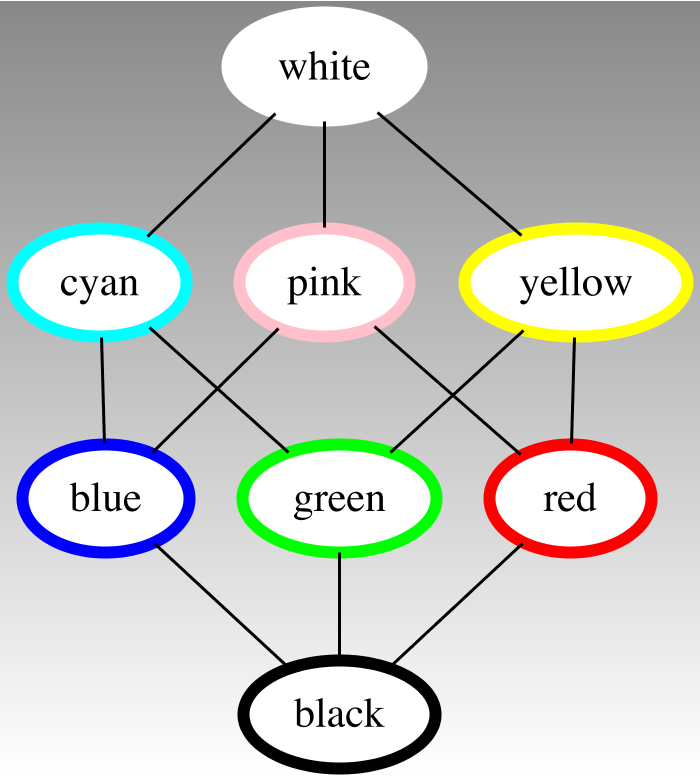
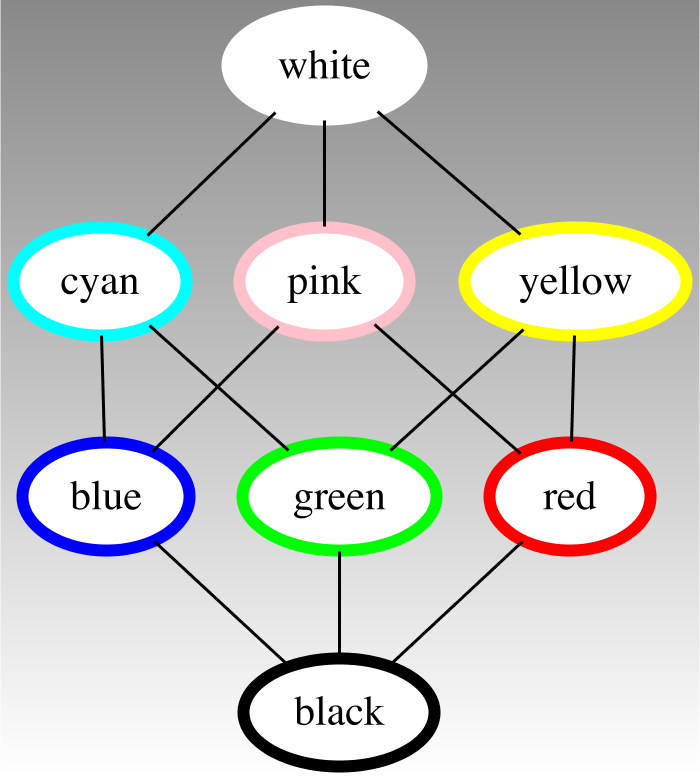
don't autoadd dpi=96, adjust the image size in the svg, not in the rasterizer

diff --git a/graphviz-java/src/main/java/guru/nidi/graphviz/engine/Format.java b/graphviz-java/src/main/java/guru/nidi/graphviz/engine/Format.java
@@ -29,8 +29,8 @@ public enum Format {
         }
 
         @Override
-        EngineResult postProcess(EngineResult result, double fontAdjust) {
-            return result.mapString(s -> postProcessSvg(s, true, fontAdjust));
+        EngineResult postProcess(Graphviz graphviz, EngineResult result) {
+            return result.mapString(s -> postProcessSvg(graphviz, s, true));
         }
     },
 
@@ -41,8 +41,8 @@ public enum Format {
         }
 
         @Override
-        EngineResult postProcess(EngineResult result, double fontAdjust) {
-            return result.mapString(s -> postProcessSvg(s, true, fontAdjust));
+        EngineResult postProcess(Graphviz graphviz, EngineResult result) {
+            return result.mapString(s -> postProcessSvg(graphviz, s, true));
         }
     },
 
@@ -53,8 +53,8 @@ public enum Format {
         }
 
         @Override
-        EngineResult postProcess(EngineResult result, double fontAdjust) {
-            return result.mapString(s -> postProcessSvg(s, false, fontAdjust));
+        EngineResult postProcess(Graphviz graphviz, EngineResult result) {
+            return result.mapString(s -> postProcessSvg(graphviz, s, false));
         }
     },
     DOT("dot", "dot", false, false),
@@ -90,7 +90,7 @@ public enum Format {
                 .replace("\\\\\"", "\\\""); //otherwise, the " is unescaped and the string not terminated
     }
 
-    EngineResult postProcess(EngineResult result, double fontAdjust) {
+    EngineResult postProcess(Graphviz graphviz, EngineResult result) {
         return result;
     }
 
@@ -108,30 +108,48 @@ public enum Format {
         return src.replace("&", "&amp;");
     }
 
-    private static String postProcessSvg(String result, boolean prefix, double fontAdjust) {
+    private static String postProcessSvg(Graphviz graphviz, String result, boolean prefix) {
         final String unprefixed = prefix ? withoutPrefix(result) : result;
-        final String pixelSized = pointsToPixels(unprefixed);
-        return fontAdjust == 1 ? pixelSized : fontAdjusted(pixelSized, fontAdjust);
-    }
-
-    private static String pointsToPixels(String svg) {
-        final Matcher m = SVG_PATTERN.matcher(svg);
-        if (!m.find()) {
-            LOG.warn("Generated SVG has not the expected format. There might be image size problems.");
-            return svg;
-        }
-        if (m.group("unit").equals("px")) {
-            return svg;
-        }
-        final double scaleX = Double.parseDouble(m.group("scaleX")) / PIXEL_PER_POINT;
-        final double scaleY = Double.parseDouble(m.group("scaleY")) / PIXEL_PER_POINT;
-        return m.replaceFirst("<svg width=\"" + m.group("width") + "px\" height=\"" + m.group("height") + "px\""
-                + m.group("between") + "transform=\"scale(" + scaleX + " " + scaleY + ")");
+        final String pixelSized = pointsToPixels(unprefixed, graphviz.dpi(),
+                graphviz.width, graphviz.height, graphviz.scale);
+        return graphviz.fontAdjust == 1 ? pixelSized : fontAdjusted(pixelSized, graphviz.fontAdjust);
     }
 
     private static String withoutPrefix(String svg) {
         final int pos = svg.indexOf("<svg ");
         return pos < 0 ? svg : svg.substring(pos);
+    }
+
+    private static String pointsToPixels(String svg, double dpi, int width, int height, double scale) {
+        final Matcher m = SVG_PATTERN.matcher(svg);
+        if (!m.find()) {
+            LOG.warn("Generated SVG has not the expected format. There might be image size problems.");
+            return svg;
+        }
+        return m.replaceFirst("<svg " + svgSize(m, width, height, scale) + m.group("between") + svgScale(m, dpi));
+    }
+
+    private static String svgSize(Matcher m, int width, int height, double scale) {
+        double w = Integer.parseInt(m.group("width"));
+        double h = Integer.parseInt(m.group("height"));
+        if (width > 0 && height > 0) {
+            w = width;
+            h = height;
+        } else if (width > 0) {
+            h *= width / w;
+            w = width;
+        } else if (height > 0) {
+            w *= height / h;
+            h = height;
+        }
+        return "width=\"" + Math.round(w * scale) + "px\" height=\"" + Math.round(h * scale) + "px\"";
+    }
+
+    private static String svgScale(Matcher m, double dpi) {
+        final double pixelScale = m.group("unit").equals("px") ? 1 : Math.round(10000 * dpi / 72) / 10000d;
+        final double scaleX = Double.parseDouble(m.group("scaleX")) / pixelScale;
+        final double scaleY = Double.parseDouble(m.group("scaleY")) / pixelScale;
+        return "transform=\"scale(" + scaleX + " " + scaleY + ")";
     }
 
     private static String fontAdjusted(String svg, double fontAdjust) {

diff --git a/graphviz-java/src/main/java/guru/nidi/graphviz/engine/Graphviz.java b/graphviz-java/src/main/java/guru/nidi/graphviz/engine/Graphviz.java
@@ -15,19 +15,23 @@
  */
 package guru.nidi.graphviz.engine;
 
-import guru.nidi.graphviz.attribute.ForGraph;
-import guru.nidi.graphviz.model.*;
+import guru.nidi.graphviz.model.Graph;
+import guru.nidi.graphviz.model.MutableGraph;
 
 import javax.annotation.Nullable;
 import java.io.*;
 import java.util.*;
 import java.util.concurrent.*;
 import java.util.function.Consumer;
-import java.util.function.Function;
+import java.util.regex.Matcher;
+import java.util.regex.Pattern;
 
 import static guru.nidi.graphviz.engine.IoUtils.readStream;
 
 public final class Graphviz {
+    private static final Pattern DPI_PATTERN = Pattern.compile("\"?dpi\"?\\s*=\\s*\"?([0-9.]+)\"?",
+            Pattern.CASE_INSENSITIVE);
+
     @Nullable
     private static volatile BlockingQueue<GraphvizEngine> engineQueue;
     @Nullable
@@ -127,13 +131,9 @@ public final class Graphviz {
         engineQueue = null;
     }
 
-    public static Graphviz fromString(String src) {
-        return new Graphviz(src, Rasterizer.DEFAULT, 0, 0, 1, 1, Options.create());
-    }
-
     public static Graphviz fromFile(File src) throws IOException {
         try (final InputStream in = new FileInputStream(src)) {
-            return fromString(readStream(in)).basedir(src.getParentFile());
+            return fromString(readStream(in)).basedir(src.getAbsoluteFile().getParentFile());
         }
     }
 
@@ -142,20 +142,11 @@ public final class Graphviz {
     }
 
     public static Graphviz fromGraph(MutableGraph graph) {
-        return withDefaultDpi(graph, g -> fromString(g.toString()));
+        return fromString(graph.toString());
     }
 
-    private static <T> T withDefaultDpi(MutableGraph graph, Function<MutableGraph, T> action) {
-        final MutableAttributed<MutableGraph, ForGraph> attrs = graph.graphAttrs();
-        final Object oldDpi = attrs.get("dpi");
-        if (oldDpi == null) {
-            attrs.add("dpi", 96);
-        }
-        try {
-            return action.apply(graph);
-        } finally {
-            attrs.add("dpi", oldDpi);
-        }
+    public static Graphviz fromString(String src) {
+        return new Graphviz(src, Rasterizer.DEFAULT, 0, 0, 1, 1, Options.create());
     }
 
     public Graphviz engine(Engine engine) {
@@ -209,11 +200,16 @@ public final class Graphviz {
         final EngineResult result = options.format == Format.DOT
                 ? EngineResult.fromString(src)
                 : getEngine().execute(options.format.preProcess(src), options, rasterizer);
-        return options.format.postProcess(result, fontAdjust);
+        return options.format.postProcess(this, result);
     }
 
     Format format() {
         return options.format;
+    }
+
+    double dpi() {
+        final Matcher matcher = DPI_PATTERN.matcher(src);
+        return matcher.find() ? Double.parseDouble(matcher.group(1)) : 72;
     }
 
     private static class ErrorGraphvizEngine implements GraphvizEngine {

diff --git a/graphviz-java/src/test/java/guru/nidi/graphviz/engine/OptionsTest.java b/graphviz-java/src/test/java/guru/nidi/graphviz/engine/OptionsTest.java
@@ -46,7 +46,7 @@ class OptionsTest {
     @Test
     void fromJsonOneImage() {
         final Options options = Options.fromJson("{engine:'DOT',format:'PNG',images:["
-                + "{path:'" + uriPathOf(new File("./example/ex1.png")) + "',width:'547px',height:'100px'}]}");
+                + "{path:'" + uriPathOf(new File("./example/ex1.png")) + "',width:'550px',height:'100px'}]}");
         final Options expected = Options.create().engine(Engine.DOT).format(Format.PNG).image("example/ex1.png");
         assertEquals(expected, options);
     }
@@ -54,8 +54,8 @@ class OptionsTest {
     @Test
     void fromJsonTwoImages() {
         final Options options = Options.fromJson("{engine:'DOT',format:'PNG',images:["
-                + "{path:'" + uriPathOf(new File("./example/ex1.png")) + "',width:'547px',height:'100px'},"
-                + "{path:'" + uriPathOf(new File("./example/ex2.png")) + "',width:'900px',height:'962px']}");
+                + "{path:'" + uriPathOf(new File("./example/ex1.png")) + "',width:'550px',height:'100px'},"
+                + "{path:'" + uriPathOf(new File("./example/ex2.png")) + "',width:'900px',height:'964px']}");
         final Options expected = Options.create().engine(Engine.DOT).format(Format.PNG).image("example/ex1.png").image("example/ex2.png");
         assertEquals(expected, options);
     }
@@ -77,15 +77,15 @@ class OptionsTest {
     void toJsonOneImage() {
         final String s = Options.create().engine(Engine.DOT).format(Format.PNG).basedir(new File("example")).image("ex1.png").toJson(false);
         assertEquals("{format:'svg',engine:'dot',basedir:'" + new File("example").getAbsolutePath() + "',images:[" +
-                "{path:'" + uriPathOf(new File("example/ex1.png")) + "',width:'547px',height:'100px'}]}", s);
+                "{path:'" + uriPathOf(new File("example/ex1.png")) + "',width:'550px',height:'100px'}]}", s);
     }
 
     @Test
     void toJsonTwoImages() {
         final String s = Options.create().engine(Engine.DOT).format(Format.PNG).basedir(new File("example")).image("ex1.png").image("ex2.png").toJson(false);
         assertEquals("{format:'svg',engine:'dot',basedir:'" + new File("example").getAbsolutePath() + "',images:["
-                + "{path:'" + uriPathOf(new File("example/ex1.png")) + "',width:'547px',height:'100px'},"
-                + "{path:'" + uriPathOf(new File("example/ex2.png")) + "',width:'900px',height:'962px'}]}", s);
+                + "{path:'" + uriPathOf(new File("example/ex1.png")) + "',width:'550px',height:'100px'},"
+                + "{path:'" + uriPathOf(new File("example/ex2.png")) + "',width:'900px',height:'964px'}]}", s);
     }
 
 }

diff --git a/graphviz-java/src/test/java/guru/nidi/graphviz/CodeAnalysisTest.java b/graphviz-java/src/test/java/guru/nidi/graphviz/CodeAnalysisTest.java
@@ -44,13 +44,14 @@ class CodeAnalysisTest extends CodeAssertJunit5Test {
     @Override
     protected DependencyResult analyzeDependencies() {
         class GuruNidiGraphviz extends DependencyRuler {
-            DependencyRule model, attribute, engine, parse, service, use;
+            DependencyRule model, attribute, attributeValidate, engine, parse, service, use;
 
             public void defineRules() {
                 base().mayBeUsedBy(all());
                 engine.mayUse(model, service);
                 parse.mayUse(model, attribute);
                 model.mayUse(attribute);
+                attributeValidate.mayUse(attribute);
                 use.mayUse(all());
             }
         }
@@ -116,7 +117,9 @@ class CodeAnalysisTest extends CodeAssertJunit5Test {
                         In.locs("MutableGraph", "Serializer", "Parser", "Label").ignore("GodClass"),
                         In.locs("ImmutableGraph", "MutableGraph").ignore("ExcessiveMethodLength", "ExcessiveParameterList", "LooseCoupling"),
                         In.locs("Format", "ImmutableGraph$GraphAttributed").ignore("AccessorMethodGeneration"),
+                        In.locs("AttributeConfigs", "AttributeValidator").ignore("TooManyStaticImports"),
                         In.classes(MutableNode.class, Rasterizer.class).ignore("ConfusingTernary"),
+                        In.clazz(ThrowingFunction.class).ignore("AvoidRethrowingException"),
                         In.classes(ThrowingFunction.class, ThrowingBiConsumer.class).ignore("SignatureDeclareThrowsException"))
                 .because("It's command line tool", In.loc("GraphvizServer")
                         .ignore("AvoidCatchingGenericException", "PreserveStackTrace"))
@@ -138,7 +141,8 @@ class CodeAnalysisTest extends CodeAssertJunit5Test {
         final CpdMatchCollector collector = new CpdMatchCollector()
                 .apply(PmdConfigs.cpdIgnoreEqualsHashCodeToString())
                 .because("It's java",
-                        In.loc("*Graph").ignore("Graph(strict, directed, cluster, name,", "if (strict != graph.strict) {"))
+                        In.loc("*Graph").ignore("Graph(strict, directed, cluster, name,", "if (strict != graph.strict) {"),
+                        In.loc("Format").ignore("String preProcess(String src) {"))
                 .just(In.locs("GraphvizGraalEngine", "GraphvizNashornEngine").ignore("void doInit()"));
         return new CpdAnalyzer(AnalyzerConfig.maven().main(), 36, collector).analyze();
     }

diff --git a/graphviz-java/src/main/java/guru/nidi/graphviz/engine/SalamanderRasterizer.java b/graphviz-java/src/main/java/guru/nidi/graphviz/engine/SalamanderRasterizer.java
@@ -30,27 +30,13 @@ class SalamanderRasterizer extends SvgRasterizer {
     @Override
     public BufferedImage doRasterize(Graphviz graphviz, @Nullable Consumer<Graphics2D> graphicsConfigurer, String svg) {
         final SVGDiagram diagram = createDiagram(svg);
-        double scaleX = graphviz.scale;
-        double scaleY = graphviz.scale;
-        if (graphviz.width != 0 || graphviz.height != 0) {
-            scaleX = graphviz.scale * graphviz.width / diagram.getWidth();
-            scaleY = graphviz.scale * graphviz.height / diagram.getHeight();
-            if (scaleX == 0) {
-                scaleX = scaleY;
-            }
-            if (scaleY == 0) {
-                scaleY = scaleX;
-            }
-        }
-        final int width = (int) Math.ceil(scaleX * diagram.getWidth());
-        final int height = (int) Math.ceil(scaleY * diagram.getHeight());
-        final BufferedImage image = new BufferedImage(width, height, BufferedImage.TYPE_INT_ARGB);
+        final BufferedImage image = new BufferedImage(
+                (int) diagram.getWidth(), (int) diagram.getHeight(), BufferedImage.TYPE_INT_ARGB);
         final Graphics2D graphics = image.createGraphics();
         configGraphics(graphics);
         if (graphicsConfigurer != null) {
             graphicsConfigurer.accept(graphics);
         }
-        graphics.scale(scaleX, scaleY);
         renderDiagram(diagram, graphics);
         return image;
     }

diff --git a/graphviz-java/src/test/java/guru/nidi/graphviz/engine/GraphvizTest.java b/graphviz-java/src/test/java/guru/nidi/graphviz/engine/GraphvizTest.java
@@ -64,7 +64,7 @@ class GraphvizTest {
     void executeWithTotalMemory() {
         final Graph graph = graph().with(node("a").link("b"));
         final String result = Graphviz.fromGraph(graph).totalMemory(32000).render(Format.SVG).toString();
-        assertThat(result, is("totalMemory=32000;render('graph { graph [\"dpi\"=\"96\"] \"a\" -- \"b\" }',"
+        assertThat(result, is("totalMemory=32000;render('graph { \"a\" -- \"b\" }',"
                 + "{format:'svg',engine:'dot',totalMemory:'32000',basedir:'" + new File(".").getAbsolutePath() + "',images:[]});"));
     }
 
@@ -72,7 +72,7 @@ class GraphvizTest {
     void executeWithoutTotalMemory() {
         final Graph graph = graph().with(node("a").link("b"));
         final String result = Graphviz.fromGraph(graph).render(Format.SVG).toString();
-        assertThat(result, is("render('graph { graph [\"dpi\"=\"96\"] \"a\" -- \"b\" }',"
+        assertThat(result, is("render('graph { \"a\" -- \"b\" }',"
                 + "{format:'svg',engine:'dot',basedir:'" + new File(".").getAbsolutePath() + "',images:[]});"));
     }
 

diff --git a/graphviz-java/src/main/java/guru/nidi/graphviz/engine/BatikRasterizer.java b/graphviz-java/src/main/java/guru/nidi/graphviz/engine/BatikRasterizer.java
@@ -43,15 +43,6 @@ class BatikRasterizer extends SvgRasterizer {
                     return image[0] = super.createImage(width, height);
                 }
             };
-            final TranscodingHints hints = new TranscodingHints(t.getTranscodingHints());
-            if (graphviz.width != 0) {
-                hints.put(ImageTranscoder.KEY_WIDTH, (float) graphviz.scale * graphviz.width);
-            }
-            if (graphviz.height != 0) {
-                hints.put(ImageTranscoder.KEY_HEIGHT, (float) graphviz.scale * graphviz.height);
-            }
-            t.setTranscodingHints(hints);
-
             t.transcode(in, out);
             return image[0];
         } catch (TranscoderException e) {

diff --git a/graphviz-java/src/test/java/guru/nidi/graphviz/engine/FormatTest.java b/graphviz-java/src/test/java/guru/nidi/graphviz/engine/FormatTest.java
@@ -48,8 +48,9 @@ class FormatTest {
     @ParameterizedTest
     @MethodSource
     void postProcess(Entry<String, String> values) {
-        assertEquals(EngineResult.fromString(values.getValue()),
-                SVG.postProcess(EngineResult.fromString(START1_7 + values.getKey()), .5));
+        assertEquals(EngineResult.fromString(values.getValue()), SVG.postProcess(
+                Graphviz.fromString("graph {dpi=96}").fontAdjust(.5),
+                EngineResult.fromString(START1_7 + values.getKey())));
     }
 
     static Set<Entry<String, String>> postProcess() {

diff --git a/graphviz-java/src/test/java/guru/nidi/graphviz/engine/RendererTest.java b/graphviz-java/src/test/java/guru/nidi/graphviz/engine/RendererTest.java
@@ -76,7 +76,7 @@ class RendererTest {
         final File out = new File("target/image.png");
         final Graphviz g = Graphviz.fromGraph(graph().with(node(" ").with(Image.of("graphviz.png"))));
         g.basedir(new File("example")).render(Format.PNG).toFile(out);
-        assertThat((int) out.length(), greaterThan(20000));
+        assertThat((int) out.length(), greaterThan(19000));
     }
 
     @Test

diff --git a/graphviz-java/src/main/java/guru/nidi/graphviz/model/ThrowingFunction.java b/graphviz-java/src/main/java/guru/nidi/graphviz/model/ThrowingFunction.java
@@ -22,6 +22,8 @@ public interface ThrowingFunction<T, R> {
     default R applyNotThrowing(T t) {
         try {
             return apply(t);
+        } catch (RuntimeException e) {
+            throw e;
         } catch (Exception e) {
             throw new RuntimeException(e);
         }
